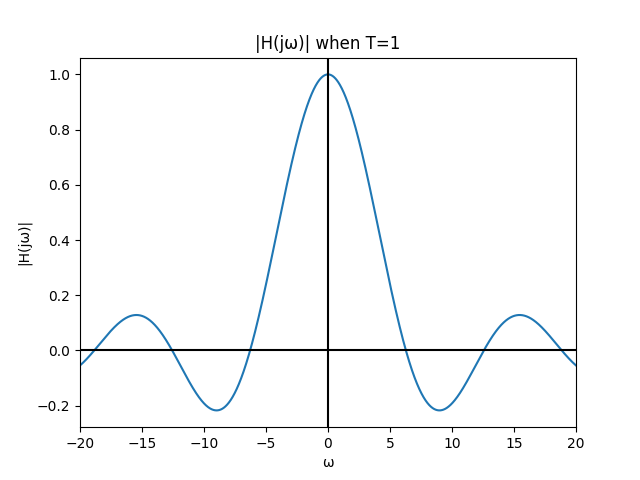
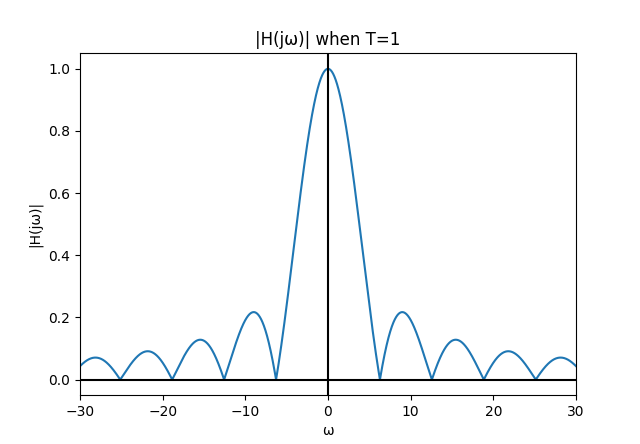
102 hw6 corrections

diff --git a/102/hw6.tex b/102/hw6.tex
@@ -135,7 +135,7 @@
                                & = \frac{1}{T} \cdot e^{-j\omega\frac{T}{2}} \cdot T\sinc\left(\frac{\omega T}{2\pi}\right) \\
                                & = \boxed{e^{-j\omega\frac{T}{2}}\sinc\left(\frac{\omega T}{2\pi}\right)}
                         \end{align*}
-                  \item $|H(j\omega)|=\sinc\left(\frac{\omega T}{2\pi}\right)$, as the graph shows:
+                  \item $|H(j\omega)|=\left|\sinc\left(\frac{\omega T}{2\pi}\right)\right|$, as the graph shows:
 
                         \includegraphics[width=12cm]{img/hw6/mag_plot}
 
